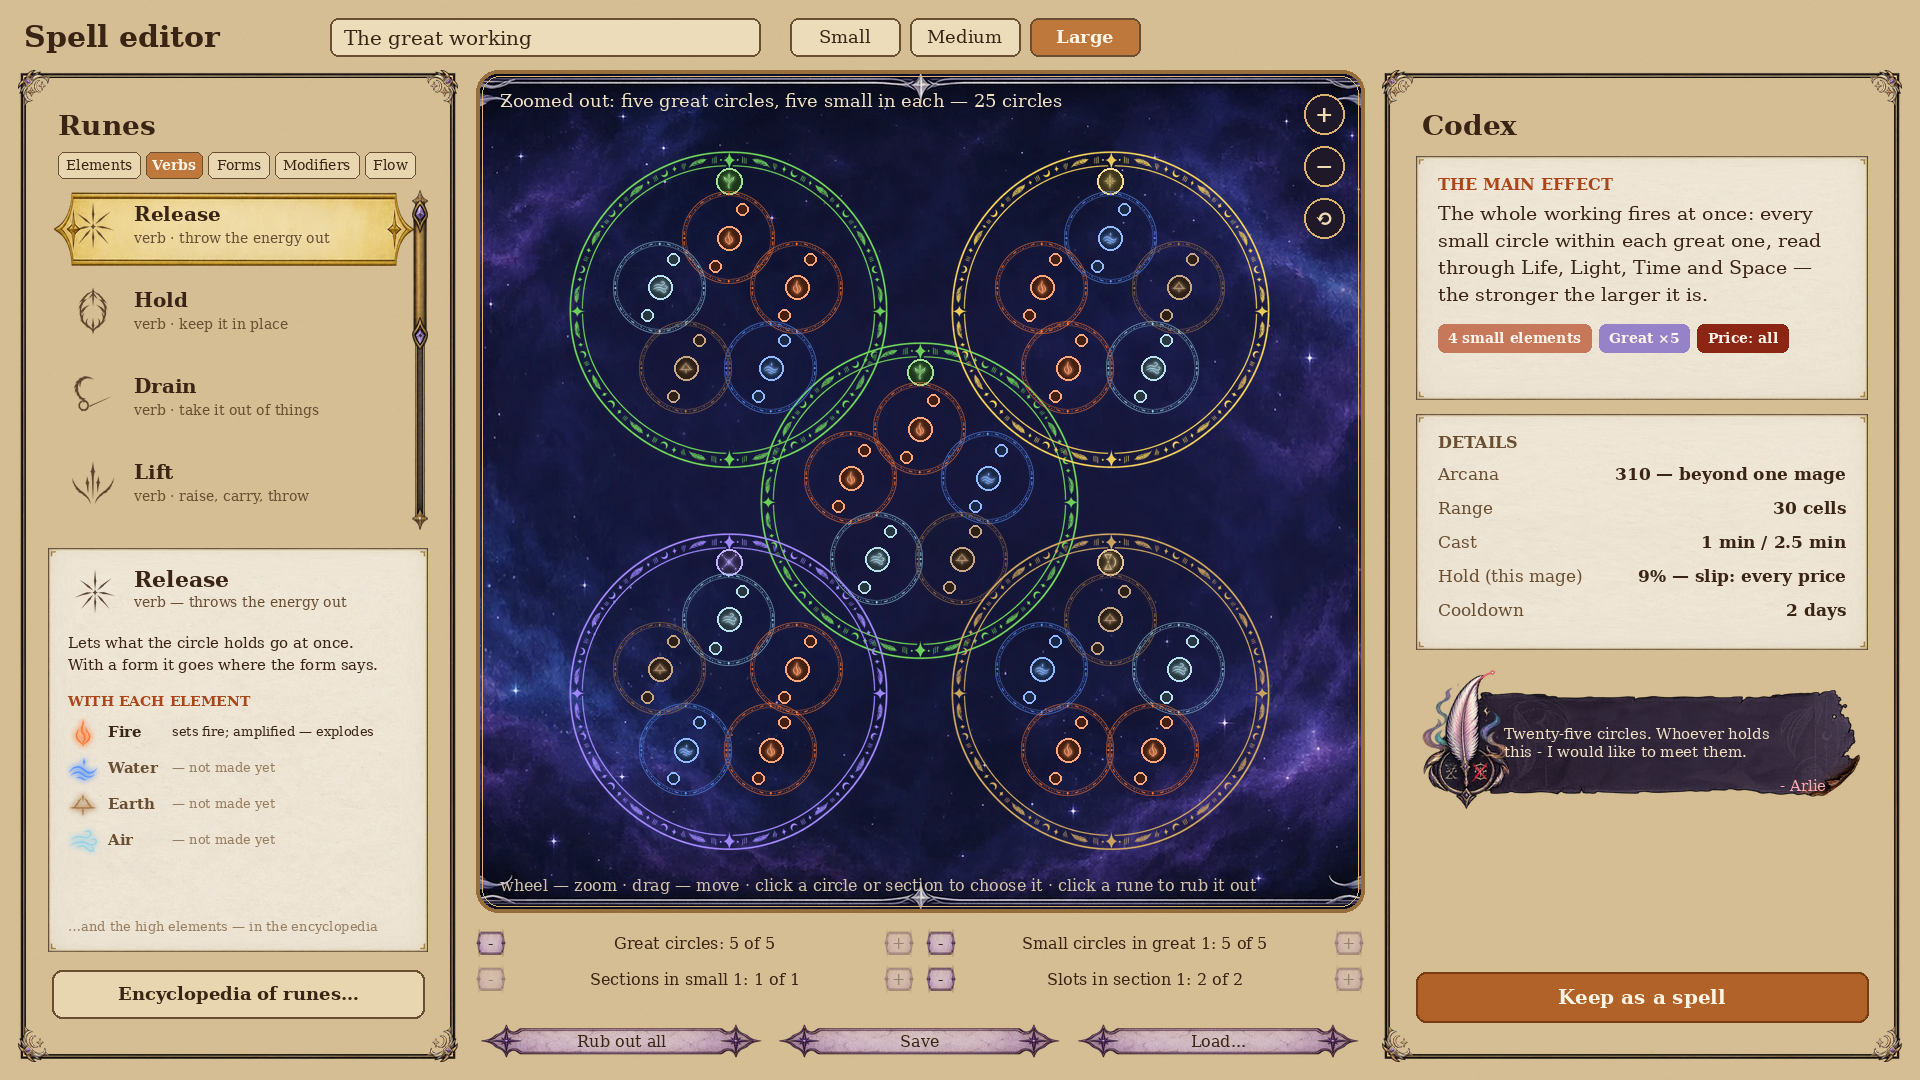
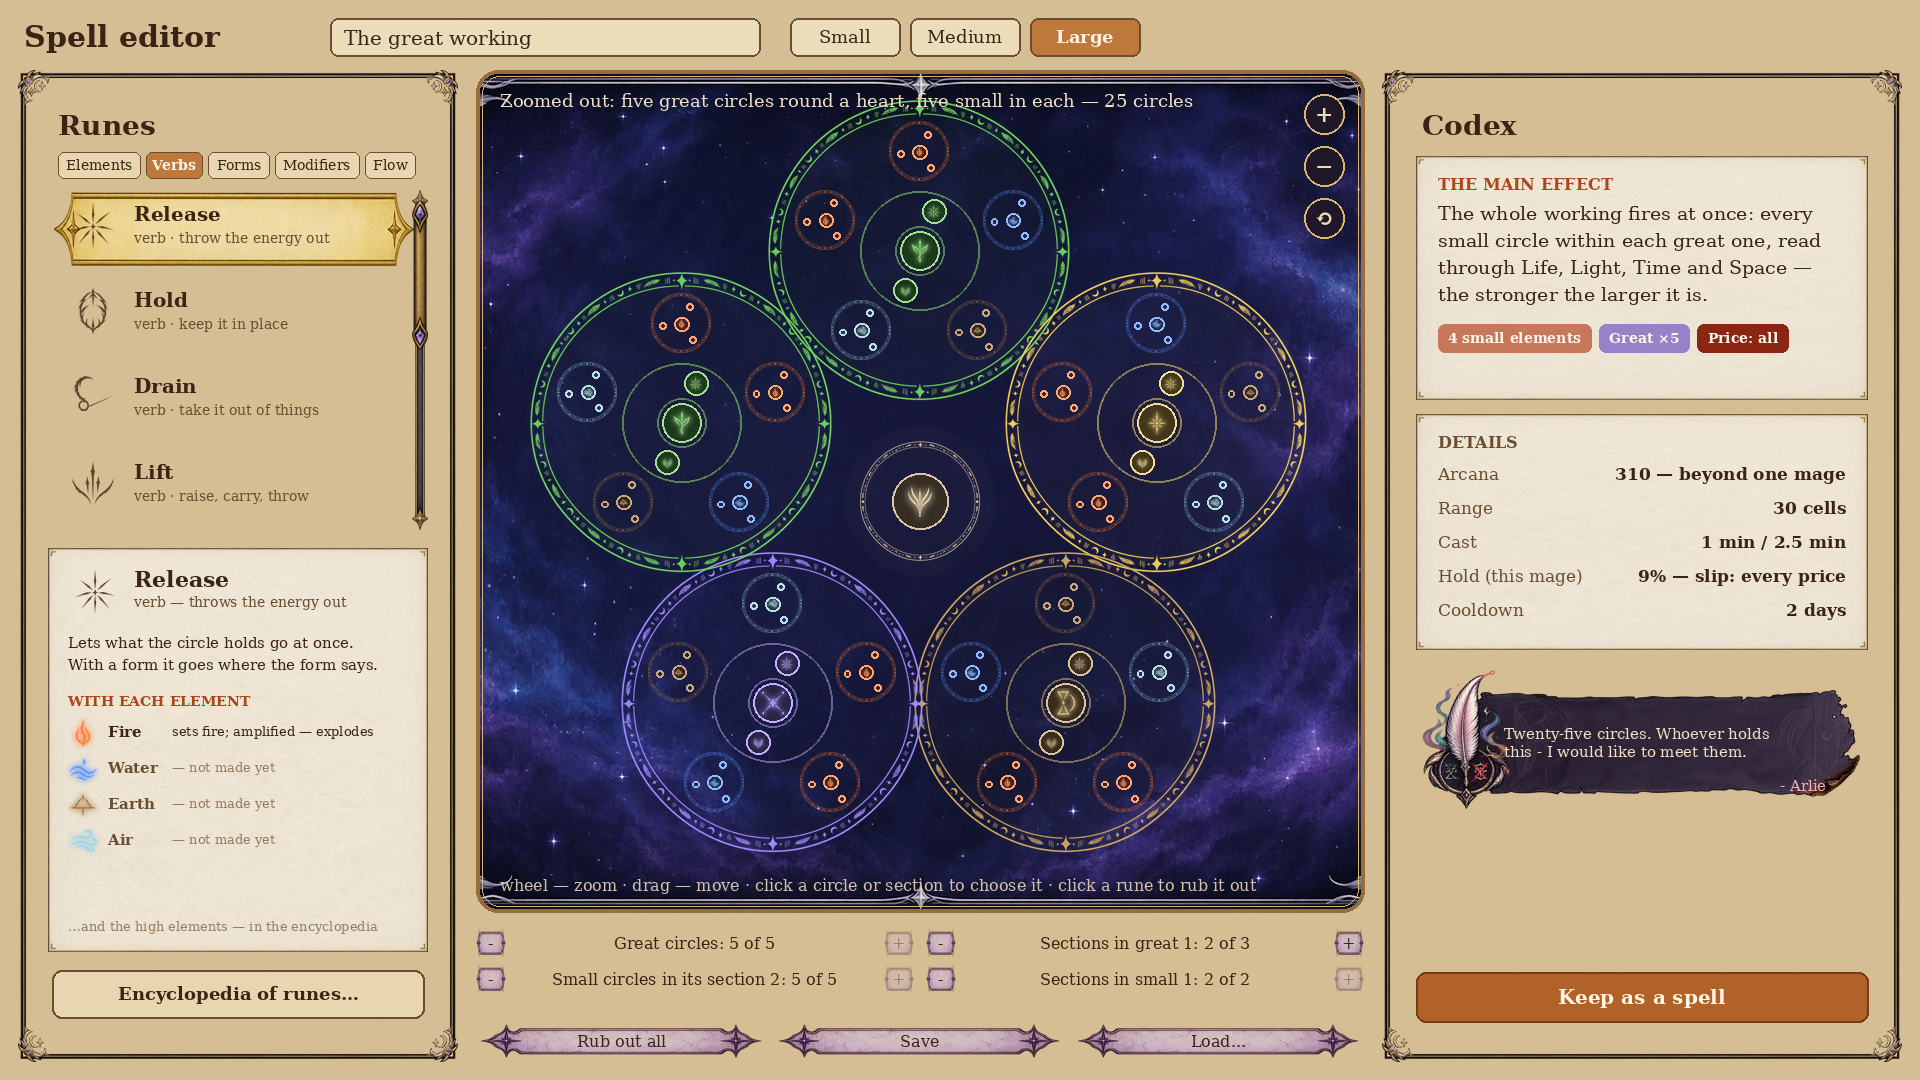
Magic: editor preview v10 (great circles with own sections, small circles in a section, five great in a ring)
Claude-Session: https://claude.ai/code/session_01YCWNLtj9zFsogxZeNiDKcG

diff --git a/Framework/Magic/Магия-план.md b/Framework/Magic/Магия-план.md
@@ -1356,3 +1356,6 @@
 - **Поток на карте влияет и на магов:** под потоком маг сильнее, но податливее Величию. В расчёте потока **маг/чародей ≈ три пешки** (психочувствительность ×3). Это может оказаться плохой идеей → **настройка в опциях**.
 - **Магия — отдельная вкладка в настройках мода** (рядом с «Avir and the mod» и «Singers»): включение магии, множитель мага для потока, прочее.
 - Превью: `Превью-редактор-заклинаний.png` (один малый), `…-сплетение.png` (большой Жизни с 4 малыми: 3 Огня + 1 Вода), `…-огромное.png` (5 × 5, отдалено).
+- **v10 (автор):** в сплетении руны малых кругов стоят **по секциям, как в обычном круге ритуалистики** (не в ряд). Для пяти больших кругов — другая форма: **кольцо из пяти вокруг сердца** (как пути Песни).
+- **Секции малых кругов остаются.** **Большой круг тоже из секций:** центр — его стихия; **своя секция с рунами** — чистые эффекты течения (без малых кругов — только они); **секция с малыми кругами** — от числа секций зависит, сколько малых внутри; с малыми внутри получается комбинация.
+- Нижняя панель для большого: «Great circles», «Sections in great N», «Small circles in its section K», «Sections in small M».
